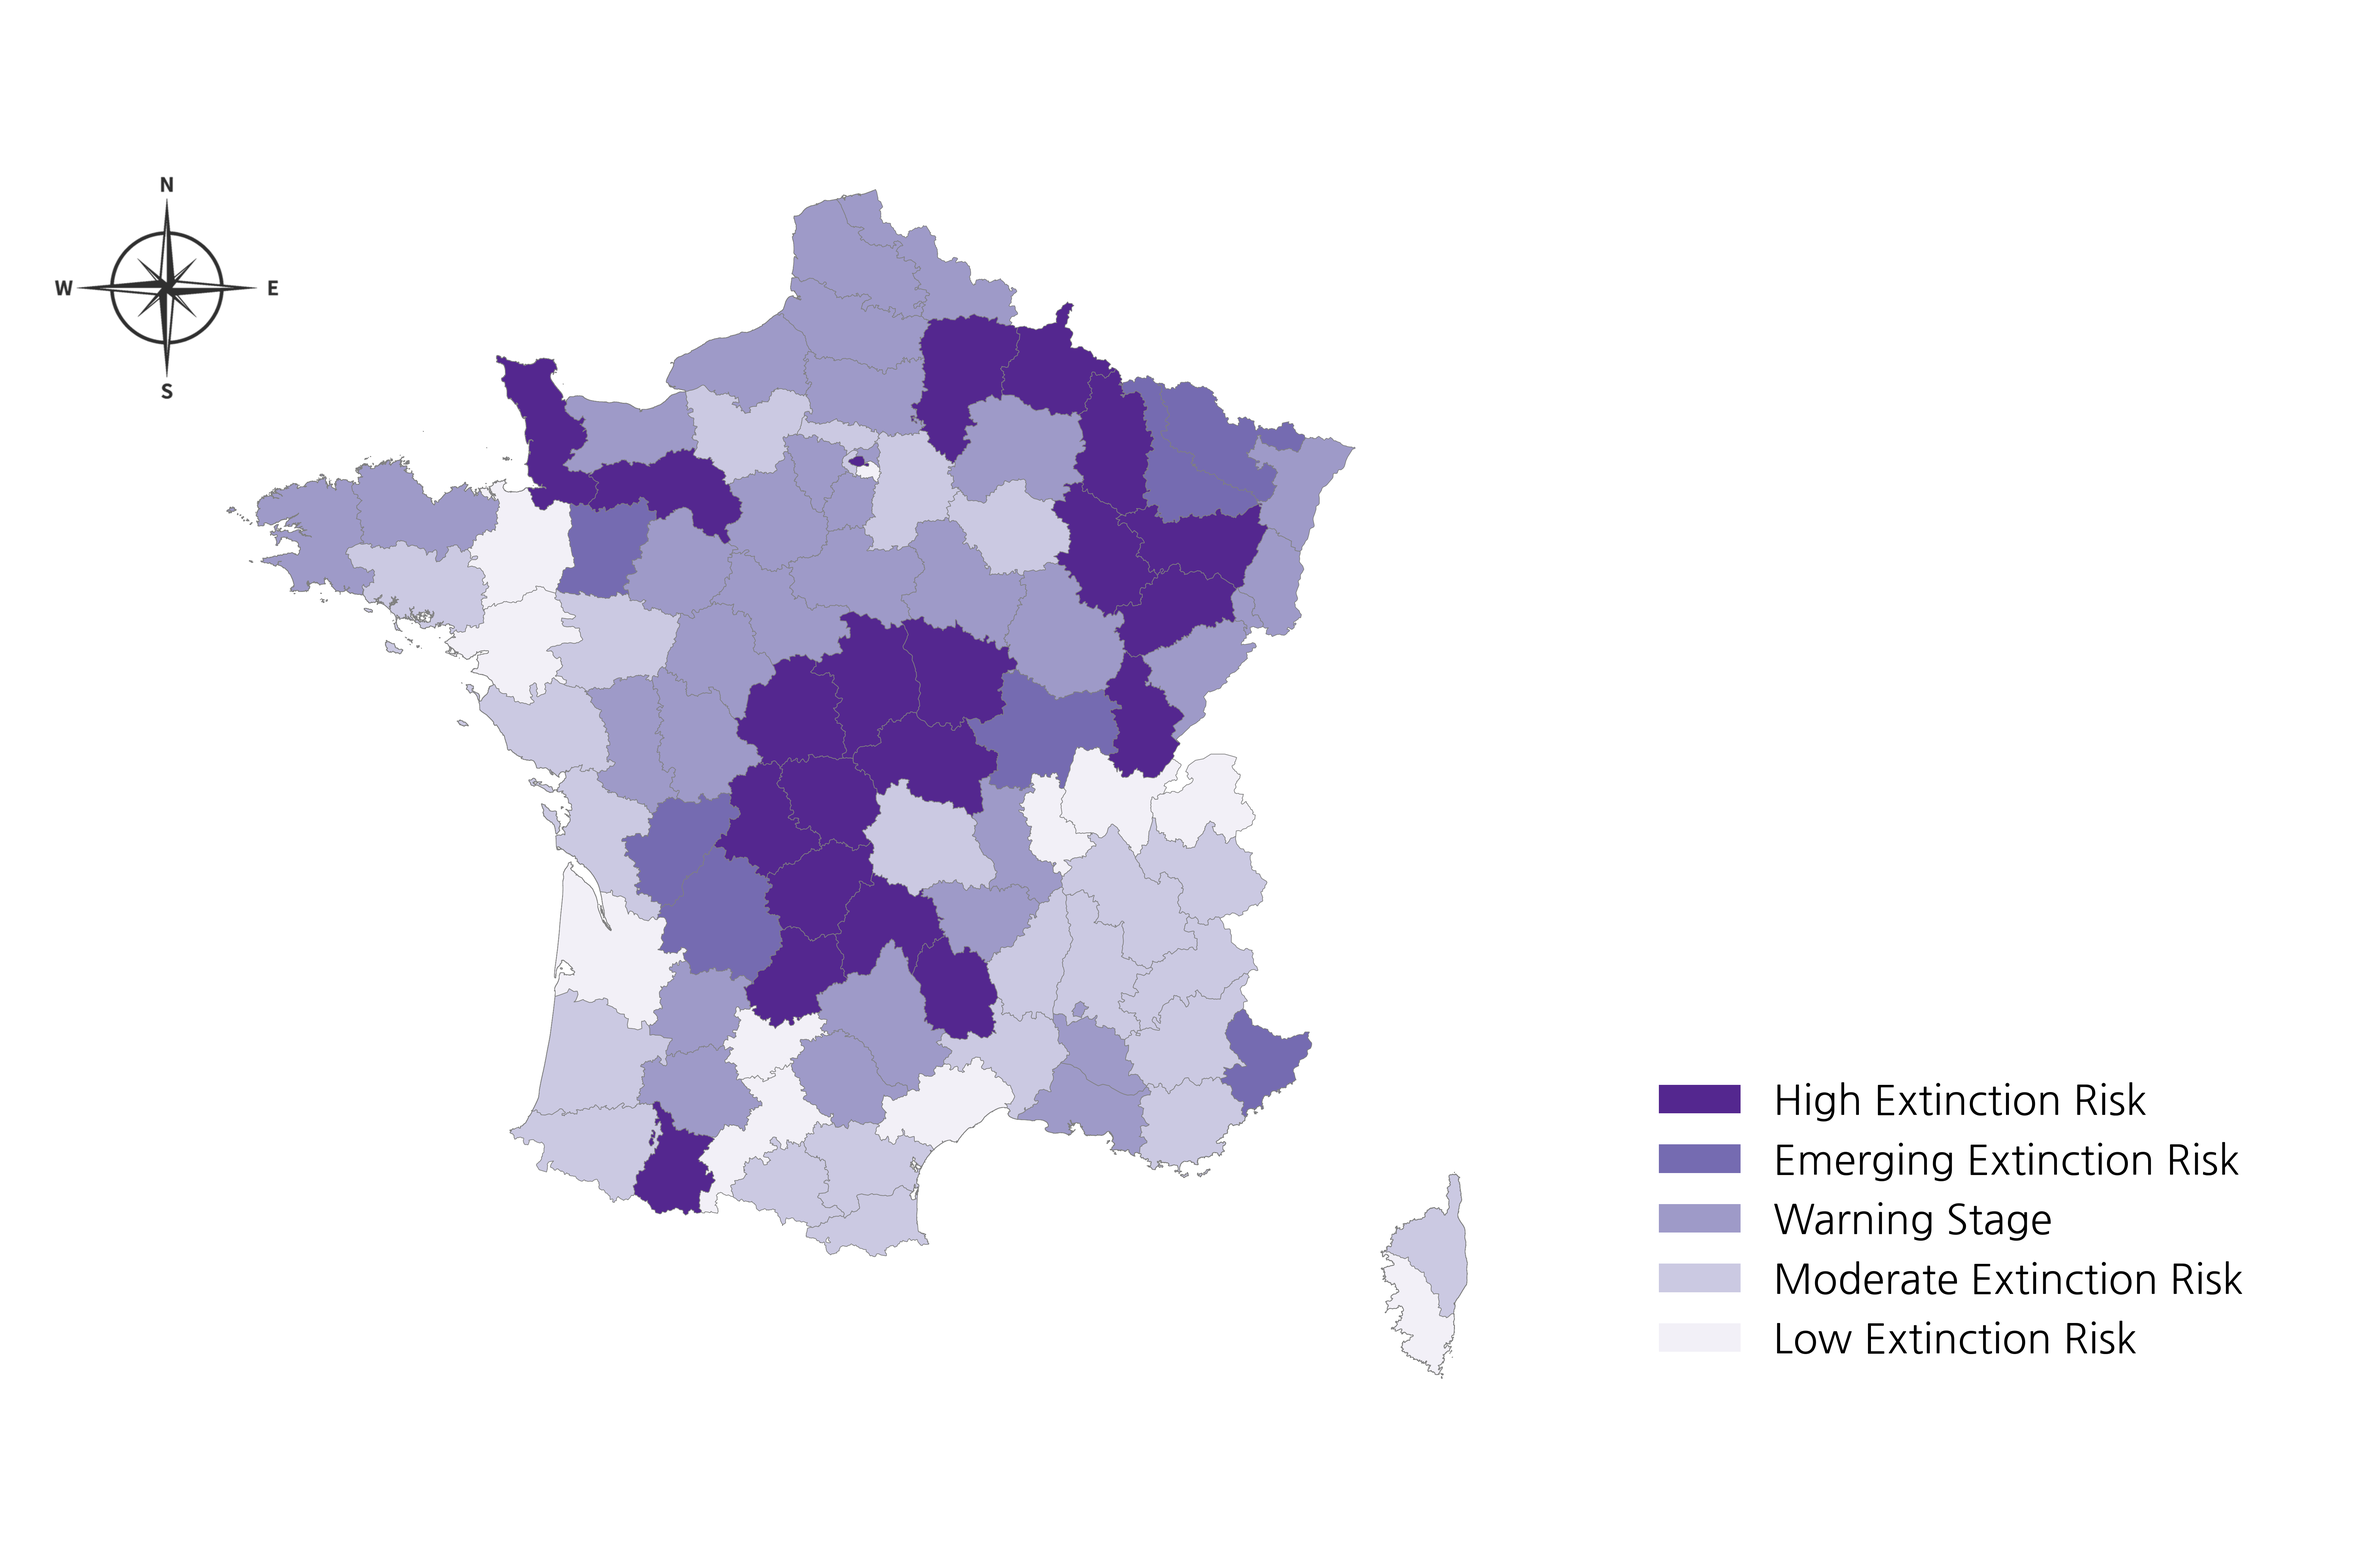
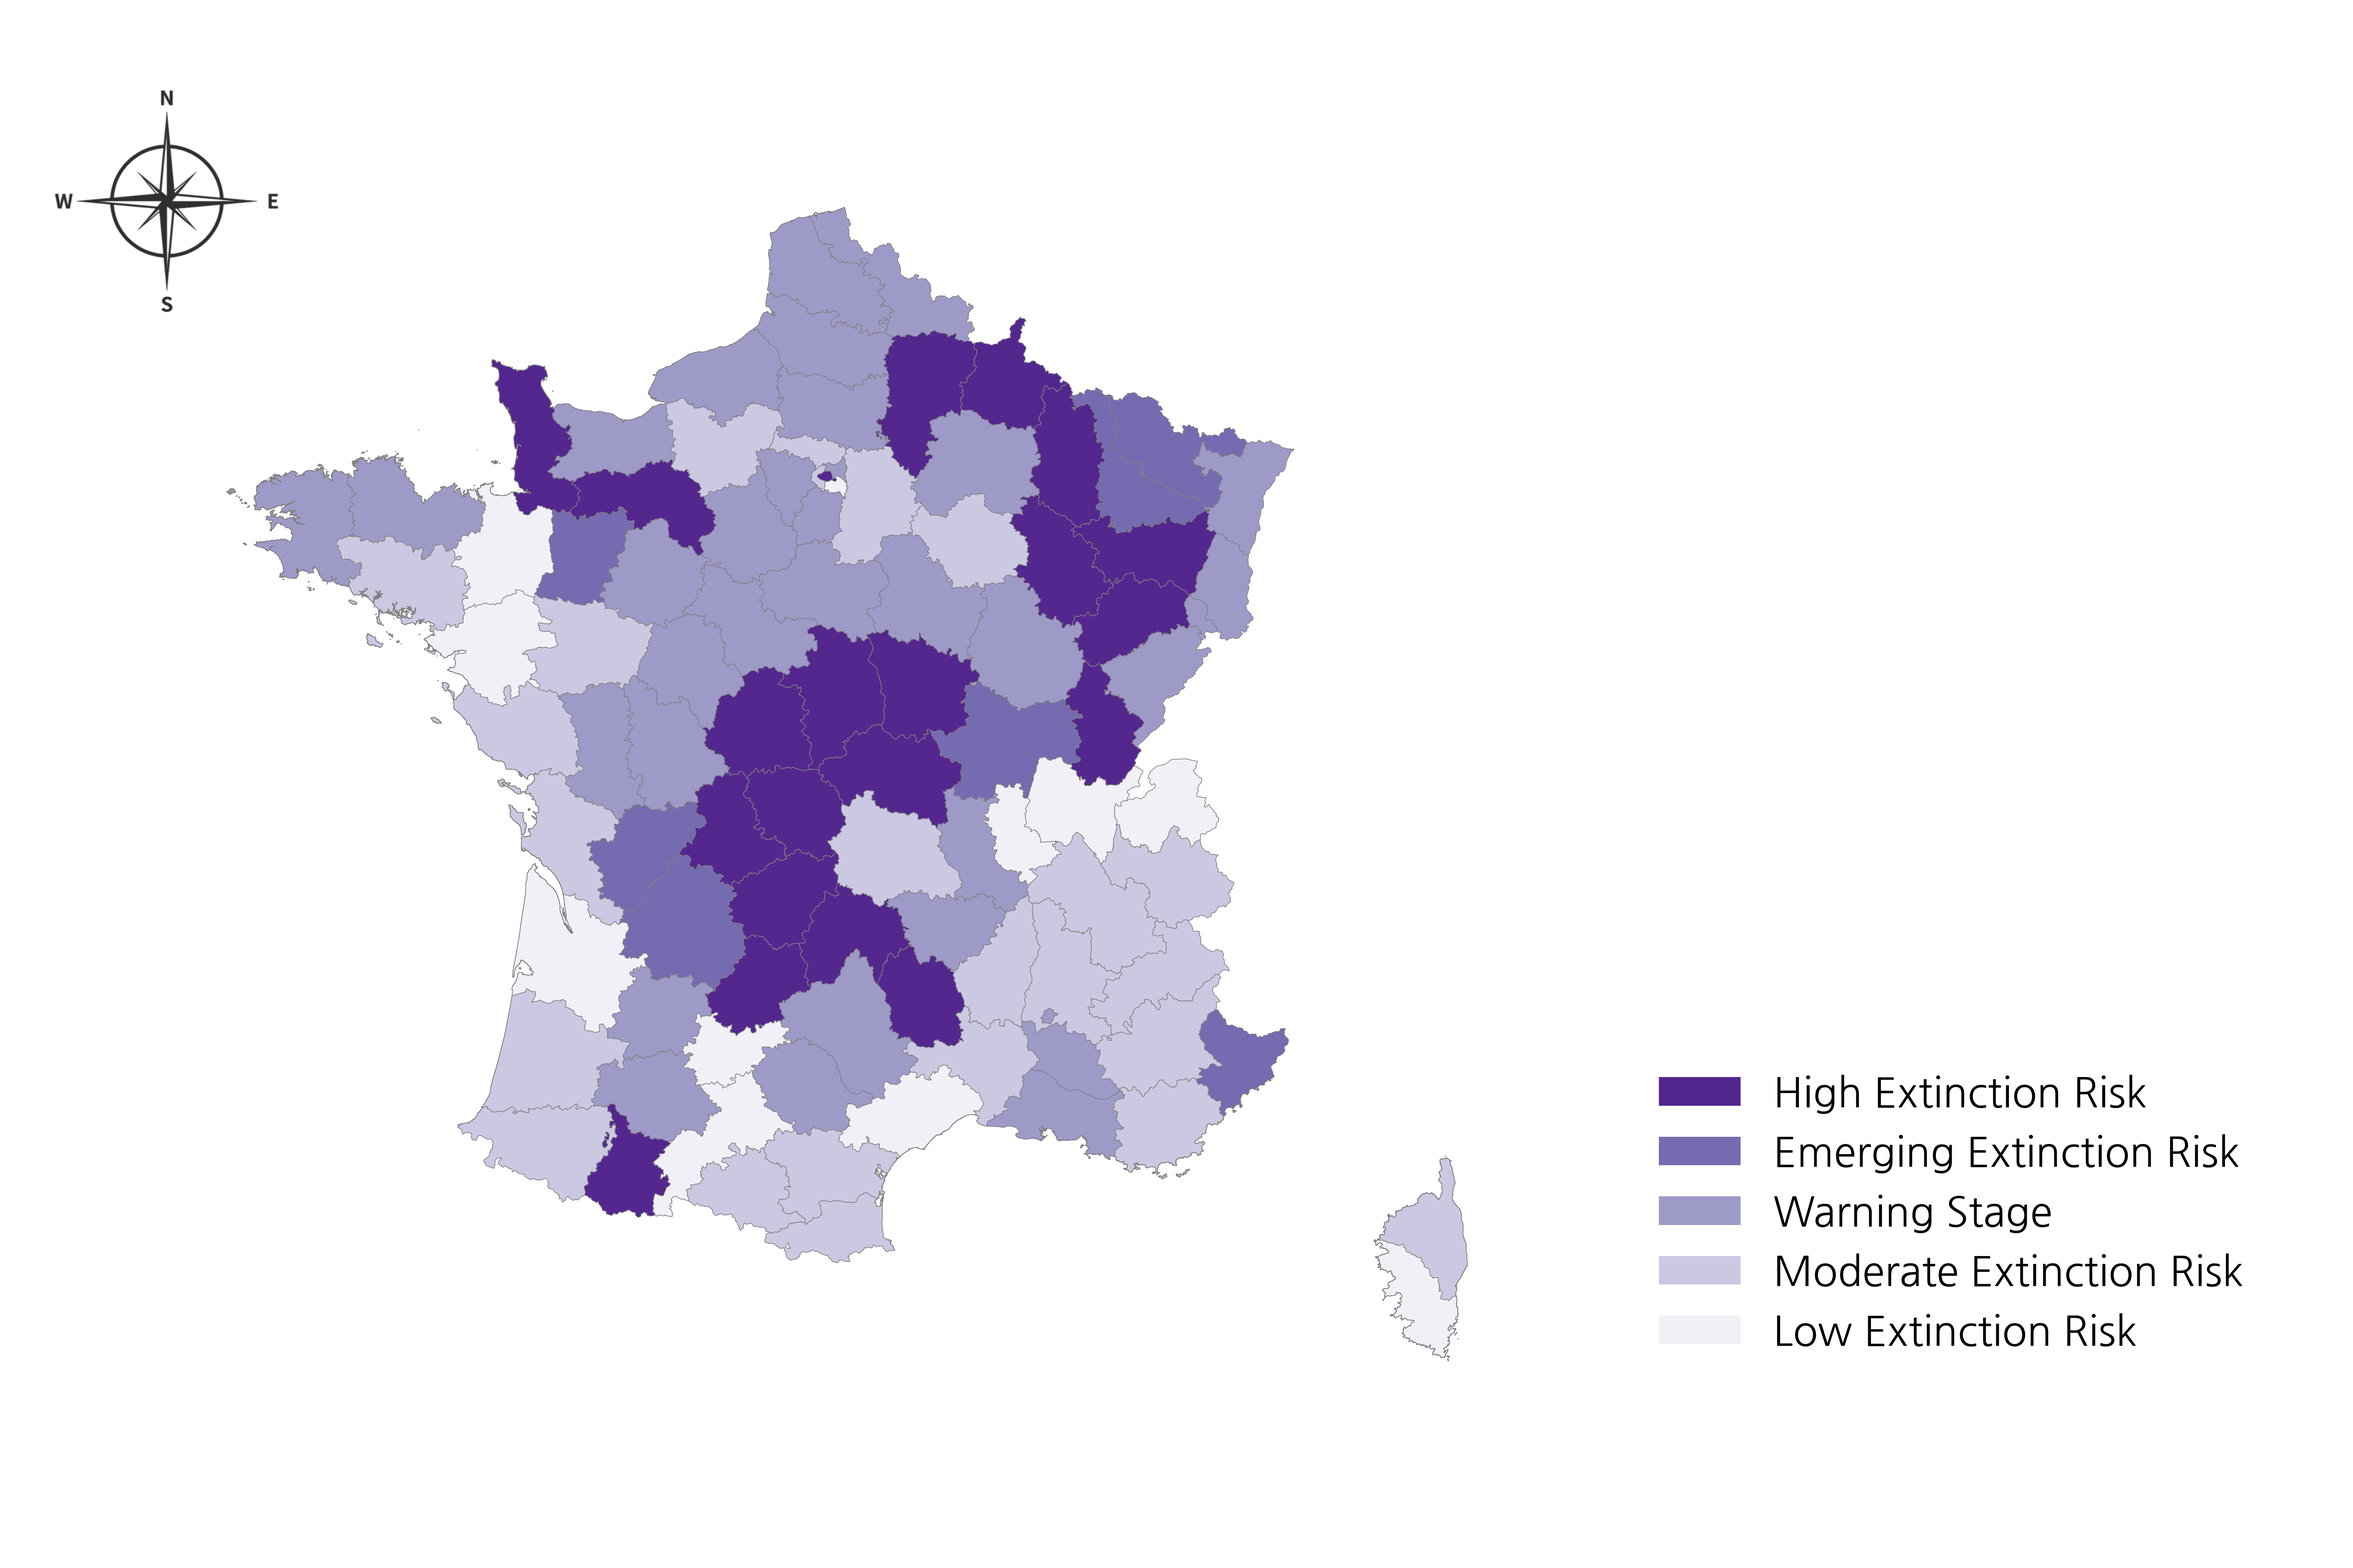
prj1 version3 완료

diff --git a/map_vanishing_region/japan_v4.py b/map_vanishing_region/japan_v4.py
@@ -1,0 +1,89 @@
+import geopandas as gpd
+import pandas as pd
+import matplotlib.pyplot as plt
+from matplotlib.patches import Patch
+import koreanize_matplotlib
+import matplotlib.image as mpimg
+from matplotlib.offsetbox import OffsetImage, AnnotationBbox
+# 파일 경로
+shp_path = "data/japan_shp/polbnda_jpn.shp"
+excel_path = "data/02_list.xlsx"
+output_path = "output/japan_v2.png"
+
+# 1. 시정촌 경계 데이터
+gdf = gpd.read_file(shp_path)
+gdf = gdf.to_crs(epsg=3101)
+
+# 2. 엑셀 인구 데이터
+df = pd.read_excel(excel_path, sheet_name=0, skiprows=2)
+df = df.rename(columns={
+    'code': 'municipality_code',
+    'ken': 'prefecture',
+    'Unnamed: 2': 'municipality_name',
+    '若年女性人口減少率（％）': 'total_population'
+})
+
+# 3. 코드 형식 통일
+df['municipality_code'] = df['municipality_code'].astype(str).str.zfill(5)
+gdf['adm_code'] = gdf['adm_code'].astype(str).str.zfill(5)
+
+# 4. 병합
+merged = gdf.merge(df[['municipality_code', 'total_population']],
+                   left_on='adm_code', right_on='municipality_code', how='left')
+
+merged['total_population'] = merged['total_population'].apply(lambda x: abs(x))
+merged['pop_class'] = merged['total_population'].apply(
+    lambda x: 'Over 50% Decline in Young Female Population' if pd.notnull(x) and x >= 50
+              else ('Less Than 50% Decline in Young Female Population' if pd.notnull(x) and x < 50 else 'No Data')
+)
+
+
+# 6. 색상 매핑
+fir_color = '#3182bd'
+sec_color = '#bdd7e7'
+base_color = '#eff3ff'
+
+color_map = {
+    'Over 50% Decline in Young Female Population': fir_color,
+    'Less Than 50% Decline in Young Female Population': sec_color,
+    'No Data': base_color
+}
+# 7. 시각화 (OOP 방식)
+fig = plt.figure(figsize=(24, 16))
+ax = fig.add_subplot(1, 1, 1)
+
+merged.plot(ax=ax,
+            color=merged['pop_class'].map(color_map),
+            linewidth=0.05,
+            edgecolor='black')
+
+# 8. 범례
+legend_elements = [
+    Patch(facecolor=fir_color, label='Over 50% Decline in Young Female Population'),
+    Patch(facecolor=sec_color, label='Less Than 50% Decline in Young Female Population'),
+    Patch(facecolor=base_color, label='No Data')
+]
+ax.legend(handles=legend_elements, loc='lower right', frameon=False, bbox_to_anchor=(1.05, 0.15), fontsize=30)
+
+# 9. 제목 및 저장
+# ax.set_title("일본 지역별 인구 감소", fontsize=20, fontweight='bold', pad=40)
+compass_img = mpimg.imread('data/compass.png')
+imagebox = OffsetImage(compass_img, zoom=0.4)  # zoom으로 크기 조정
+
+# (x, y) 위치 지정 - axes fraction 기준 (예: 오른쪽 아래)
+ab = AnnotationBbox(imagebox, (-0.05, 0.9),  # x, y in axes fraction
+                    xycoords='axes fraction',
+                    frameon=False)
+ax.add_artist(ab)
+fig.subplots_adjust(left=0.03, right=1, top=0.95, bottom=-0.07)
+
+
+
+
+
+ax.set_axis_off()
+# ax.set_position([0.1, 0.15, 0.8, 0.9])
+# fig.tight_layout()
+fig.savefig(output_path, dpi=300)
+plt.show()
+# plt.close(fig)

diff --git a/map_vanishing_region/japan.py b/map_vanishing_region/japan.py
@@ -8,10 +8,12 @@ from matplotlib.offsetbox import OffsetImage, AnnotationBbox
 # 파일 경로
 shp_path = "data/japan_shp/polbnda_jpn.shp"
 excel_path = "data/02_list.xlsx"
-output_path = "data/japan_v2.png"
+output_path = "output/japan_v2.png"
 
 # 1. 시정촌 경계 데이터
 gdf = gpd.read_file(shp_path)
+gdf = gdf.to_crs(epsg=3101)
+
 
 # 2. 엑셀 인구 데이터
 df = pd.read_excel(excel_path, sheet_name=0, skiprows=2)
@@ -55,6 +57,8 @@ merged.plot(ax=ax,
             color=merged['pop_class'].map(color_map),
             linewidth=0.05,
             edgecolor='black')
+merged = gdf.to_crs(epsg=3101)
+
 
 # 8. 범례
 legend_elements = [
@@ -62,7 +66,7 @@ legend_elements = [
     Patch(facecolor=sec_color, label='Population 10,000 and Over'),
     Patch(facecolor=base_color, label='No Data')
 ]
-ax.legend(handles=legend_elements, loc='lower right', frameon=False, bbox_to_anchor=(1.24, 0.06), fontsize=30)
+ax.legend(handles=legend_elements, loc='lower right', frameon=False, bbox_to_anchor=(1.15, 0.15), fontsize=30)
 
 # 9. 제목 및 저장
 # ax.set_title("일본 지역별 인구 감소", fontsize=20, fontweight='bold', pad=40)
@@ -70,11 +74,11 @@ compass_img = mpimg.imread('data/compass.png')
 imagebox = OffsetImage(compass_img, zoom=0.4)  # zoom으로 크기 조정
 
 # (x, y) 위치 지정 - axes fraction 기준 (예: 오른쪽 아래)
-ab = AnnotationBbox(imagebox, (-0.24, 0.89),  # x, y in axes fraction
+ab = AnnotationBbox(imagebox, (-0.05, 0.9),  # x, y in axes fraction
                     xycoords='axes fraction',
                     frameon=False)
 ax.add_artist(ab)
-fig.subplots_adjust(left=0.07, right=1, top=0.95, bottom=0.05)
+fig.subplots_adjust(left=0.03, right=1, top=0.95, bottom=-0.07)
 
 
 ax.set_axis_off()

diff --git a/map_vanishing_region/독일_구조적취약.py b/map_vanishing_region/독일_구조적취약.py
@@ -1,3 +1,5 @@
+from unittest.mock import inplace
+
 import geopandas as gpd
 import matplotlib.pyplot as plt
 import pandas as pd
@@ -75,17 +77,20 @@ def load_map():
     imagebox = OffsetImage(compass_img, zoom=0.4)  # zoom으로 크기 조정
 
     # (x, y) 위치 지정 - axes fraction 기준 (예: 오른쪽 아래)
-    ab = AnnotationBbox(imagebox, (-0.2, 0.85),  # x, y in axes fraction
+    ab = AnnotationBbox(imagebox, (-0.2, 0.92),  # x, y in axes fraction
                         xycoords='axes fraction',
                         frameon=False)
     ax.add_artist(ab)
 
     base_shp.plot(ax=ax, color='lightgray', edgecolor='gray')
+    base_shp.to_crs('EPSG:25832', inplace=True)
 
     # plt.tight_layout()
 
     # colors = ['green' if stage == 'D' else 'lightgray' for stage in green_land_shp['stage']]
     green_land_shp.plot(ax=ax, color=green_land_shp['color'], edgecolor='darkgray', legend=True,)
+    green_land_shp.to_crs('EPSG:25832', inplace=True)
+
     # fig.subplots_adjust(left=0.07, right=1.13, top=0.95, bottom=0.05)
 
     legend_patches = [
@@ -109,8 +114,8 @@ def load_map():
     fig.subplots_adjust(left=0.07, right=0.7, top=0.95, bottom=0.05)
 
     plt.axis('off')  # 축 제거
-    # plt.show()
-    plt.savefig('output/독일_최종본2.png', dpi=300)
+    plt.savefig('output/독일_최종본_25832.png', dpi=300)
+    plt.show()
 #
 def main():
     os.makedirs('output', exist_ok=True)

diff --git a/map_vanishing_region/미국_저소득지역.py b/map_vanishing_region/미국_저소득지역.py
@@ -59,6 +59,7 @@ def load_usa_map():
 
     # Load the USA map shapefile
     oklahoma_tracts = gpd.read_file("data/merged_us_shp/merged_us_states.shp")
+    oklahoma_tracts.to_crs(epsg=5070, inplace=True)
     oklahoma_tracts['GEOID'] = oklahoma_tracts['GEOID'].astype(str)
 
     us_shp_file = gpd.read_file("data/us_shp/cb_2018_us_division_500k.shp")
@@ -94,6 +95,7 @@ def load_usa_map():
     custom_cmap = ListedColormap(custom_colors)
 
     merged_gdf = gpd.GeoDataFrame(merged_data, geometry='geometry')
+    merged_gdf.to_crs(epsg=5070, inplace=True)
     merged_gdf.plot(
         column='LOWMOD_PCT',
         ax=ax,
@@ -118,8 +120,8 @@ def load_usa_map():
     cbar_ax.tick_params(labelsize=30)
 
     plt.axis('off')  # 축 제거
-    # plt.show()
-    plt.savefig('output/미국_최종본2.png', dpi=300)
+    plt.savefig('output/미국_최종본3.png', dpi=300)
+    plt.show()
 
 def main():
     # 1. xlsx to csv

diff --git a/map_vanishing_region/france_v3.py b/map_vanishing_region/france_v3.py
@@ -15,6 +15,7 @@ def draw_map():
 
     output_path = "output/france_final.png"
     france = gpd.read_file('data/france_shp/france.shp')
+    france.to_crs('epsg:2154', inplace=True)  # WGS 84 좌표계로 변환
 
     # 2. 인구 변화율 데이터 준비
     population_change_data = {
@@ -81,7 +82,7 @@ def draw_map():
     imagebox = OffsetImage(compass_img, zoom=0.4)  # zoom으로 크기 조정
 
     # (x, y) 위치 지정 - axes fraction 기준 (예: 오른쪽 아래)
-    ab = AnnotationBbox(imagebox, (0.0, 0.88),  # x, y in axes fraction
+    ab = AnnotationBbox(imagebox, (0.0, 0.96),  # x, y in axes fraction
                         xycoords='axes fraction',
                         frameon=False)
     ax.add_artist(ab)
